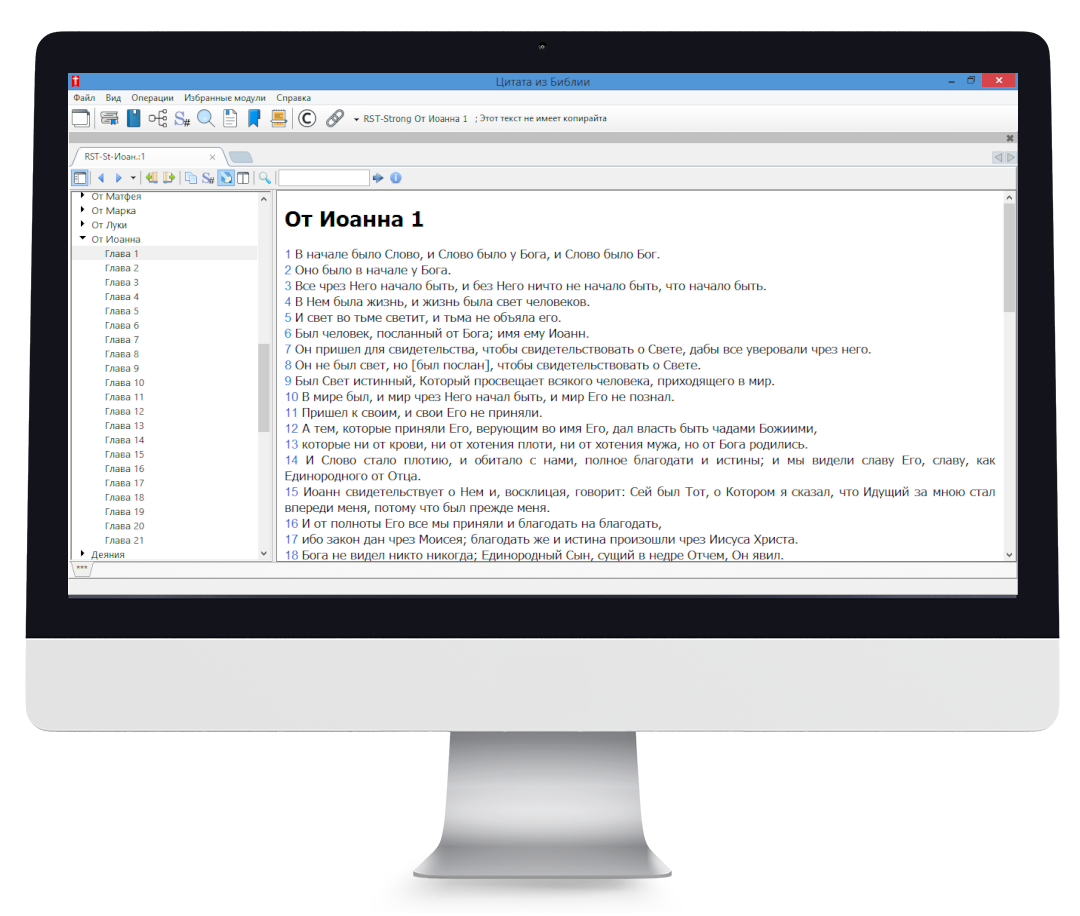
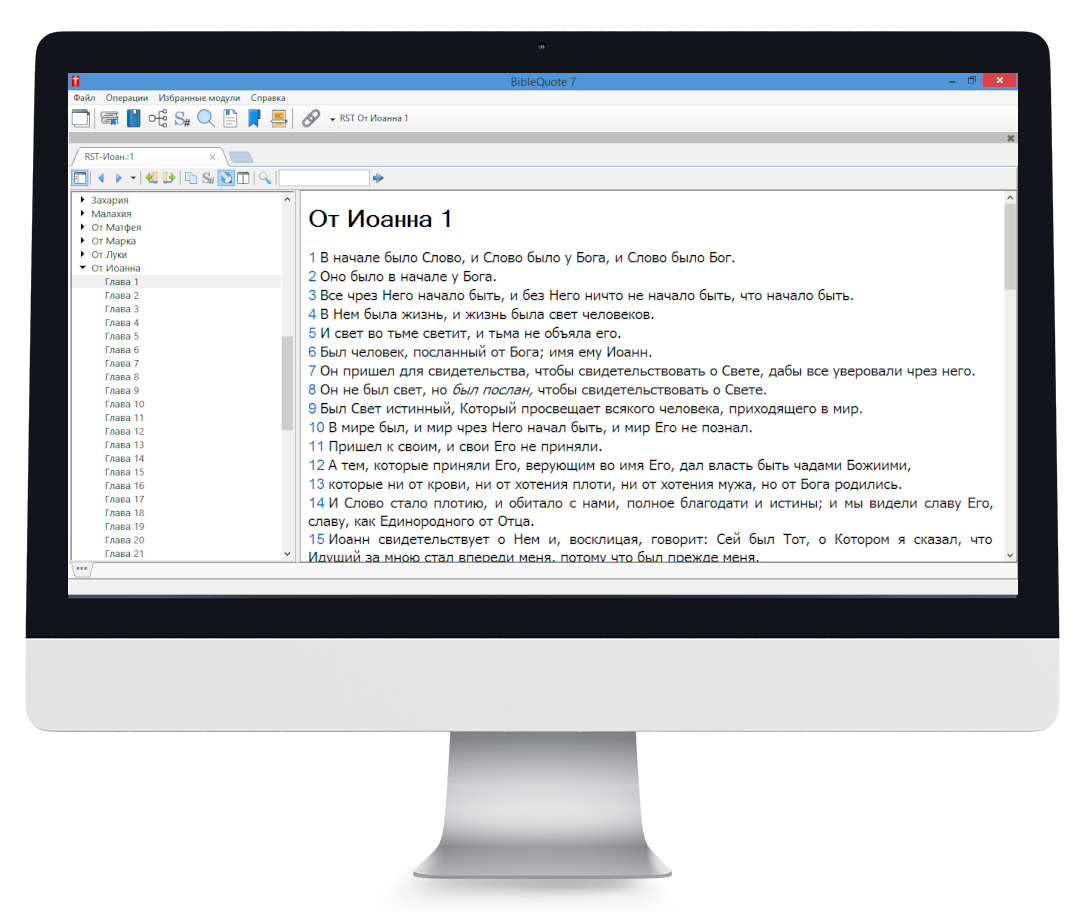
Update screetshots and build number

diff --git a/src/Home.js b/src/Home.js
@@ -126,8 +126,8 @@ class Home extends Component {
               <div className="col-md-6">
                 <div className="demo-image">
                   <ModalImage
-                    small={"assets/img/bq/3-strong.png"}
-                    medium={"assets/img/bq/3-strong.png"}
+                    small={"assets/img/bq/3-dictionaries.png"}
+                    medium={"assets/img/bq/3-dictionaries.png"}
                     alt="Словари"
                     hideDownload={true}
                     hideZoom={true}
@@ -244,7 +244,7 @@ class Home extends Component {
             </div>
             <div className="info">
               <h1>Версия 7.0.0</h1>
-              <p>Сборка 462</p>
+              <p>Сборка 538</p>
               <Link to="/" className="btn btn-neutral btn-lg btn-fill" onClick={this.downloadClick}>
                 <i className="fa fa-download" /> Загрузить
               </Link>
